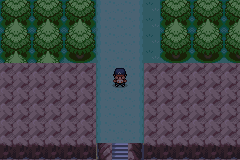
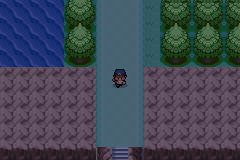
Redraw the view when a camera transition changes the main tileset
Walking across a connection into a map with a different primary tileset
loaded the new tiles but left the view drawn with the previous map's
metatiles, so the new map showed the old map's graphics until it scrolled.
West Pass -> Route 27 showed it; that replay test's reference had captured
the stale picture and now expects Route 27 as drawn.

Claude-Session: https://claude.ai/code/session_01XMJF17U18XtbfGGgKpeJmb

diff --git a/engine/src/overworld.c b/engine/src/overworld.c
@@ -952,6 +952,8 @@ void LoadMapFromCameraTransition(u8 mapGroup, u8 mapNum)
         KantoSeam_LoadResources(gMapHeader.mapLayout, TRUE);
         ApplyWeatherColorMapToPals(0, NUM_PALS_TOTAL);
         InitTilesetAnimations();
+        // The view on screen was drawn with the previous map's tiles; draw it again with these.
+        DrawWholeMapView();
     }
     else
     {
